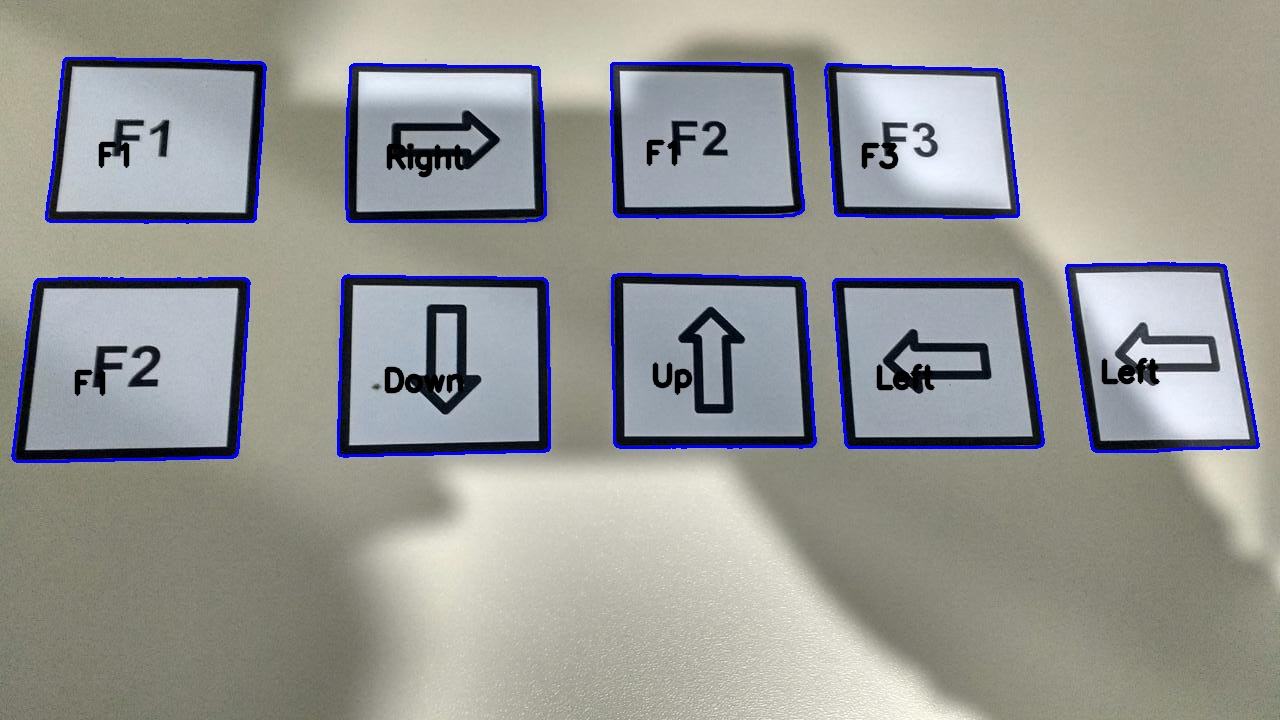
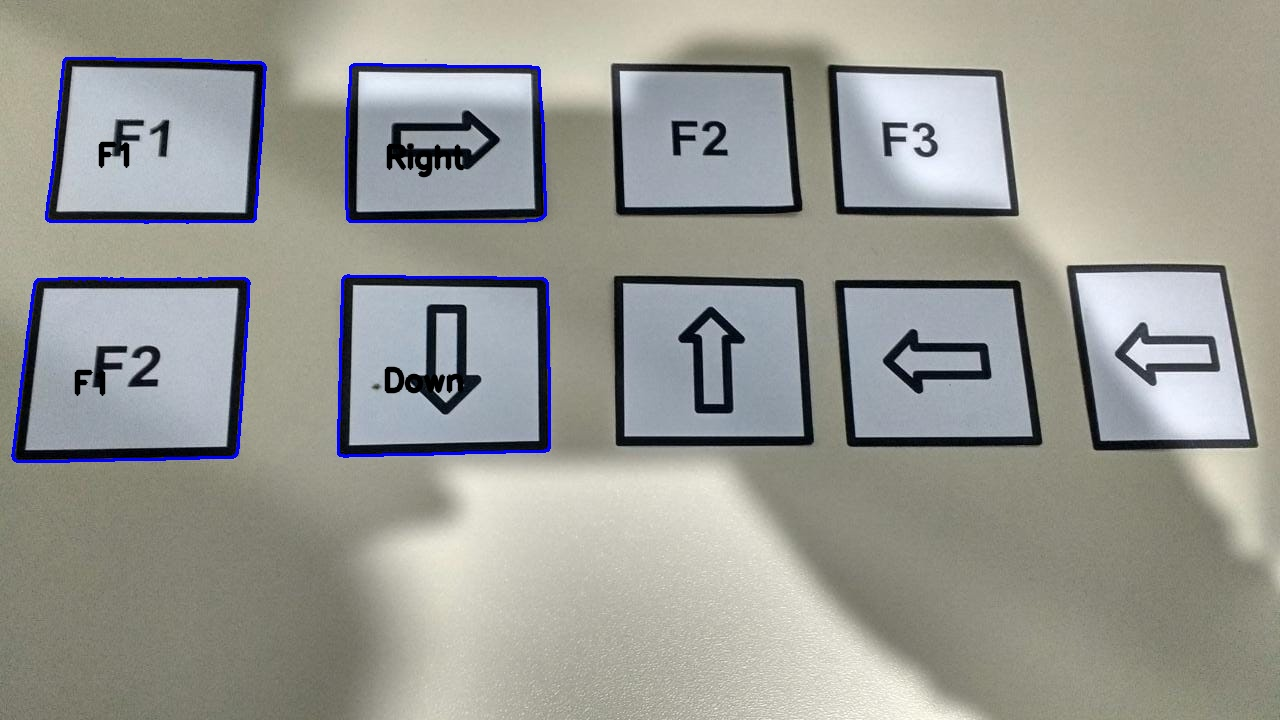
checkpoint

Changed region(s): [[0.4688, 0.3361, 1.0, 0.6417], [0.4688, 0.0611, 0.8125, 0.3056]]

diff --git a/Command.py b/Command.py
@@ -25,7 +25,6 @@ class Query_command:
     def __init__(self):
         self.contour = [] 
         self.width, self.height, self.x, self.y = 0, 0, 0, 0
-        self.corner_pts = [] 
         self.center = [] 
         self.warp = []
         self.command_img = [] 
@@ -69,34 +68,38 @@ def find_commands(cnts, image, train_commands):
     if len(cnts) == 0:
         return []
     cnts = sort_contours(cnts, method="top-to-bottom")
-    commands = []
-    for y in range(len(cnts)): 
-        qCommand = Query_command()
-        qCommand = preprocess_command(cnts[y],image)
-        best_command_match, diff = match_command(qCommand,train_commands)
-        if(best_command_match != "Unknown"):
-            qCommand.best_command_match, qCommand.diff = best_command_match, diff
-            commands.append(qCommand)
-    return commands
 
-    if len(commands) == 0:
-        return []
-    
-    command_order = []
-    line_command  = []
-    limitY = commands[0].center[1] + 15
-    for command in commands:
-        if(command.center[1] < limitY):
-            line_command.append(command)
+    cnts_order = []
+    line_cnts  = []
+    center, pts = define_center(cnts[0])
+    limitY = center[1] + 15    
+    for i in range(len(cnts)):
+        center, pts = define_center(cnts[i])
+        if(center[1] < limitY):
+            line_cnts.append(cnts[i])
         else:
-            limitY = command.center[1] + 15
-            line_command = sort_contours(line_command)
-            command_order.append(line_command)
-            line_command = []
-            line_command.append(command)
-    line_command = sort_contours(line_command)
-    command_order.append(line_command)
-    return command_order
+            limitY = center[1] + 15
+            line_cnts = sort_contours(line_cnts)
+            cnts_order.append(line_cnts)
+            line_cnts = []
+            line_cnts.append(cnts[i])
+    line_cnts = sort_contours(line_cnts)
+    cnts_order.append(line_cnts)        
+
+    commands = []
+    for y in range(len(cnts_order)): 
+        line_commands  = []
+        for x in range(len(cnts_order[y])):  
+            qCommand = Query_command()
+            qCommand = preprocess_command(cnts_order[y][x],image)
+            best_command_match, diff = match_command(qCommand,train_commands)
+            if(best_command_match != "Unknown"):
+                qCommand.best_command_match, qCommand.diff = best_command_match, diff
+                line_commands.append(qCommand)
+        if len(line_commands) > 0:
+            commands.append(line_commands)
+    
+    return commands 
 
 def match_command(qCommand, train_command):
     best_command_match_diff = 1000000000
@@ -115,7 +118,6 @@ def match_command(qCommand, train_command):
     return best_command_match_name, best_command_match_diff
 
 def responseCommands(commands):
-    return ""
     response = ""
     if len(commands) == 0:
         return "Unknown"
@@ -133,20 +135,21 @@ def responseCommands(commands):
 def preprocess_command(contour, image):
     qCommand = Query_command()
     qCommand.contour = contour
-    # Find perimeter of card and use it to approximate corner points
-    peri = cv2.arcLength(contour,True)
-    approx = cv2.approxPolyDP(contour,0.01*peri,True)
-    pts = np.float32(approx)
-    qCommand.corner_pts = pts
     # Find width and height of card's bounding rectangle
     qCommand.width, qCommand.height,qCommand.x, qCommand.y = cv2.boundingRect(contour)
     # Find center point of card by taking x and y average of the four corners.
+    qCommand.center, pts = define_center(contour)
+    qCommand.command_img = flattener(image, pts, qCommand.width, qCommand.height)
+    return qCommand
+
+def define_center(contour):
+    peri = cv2.arcLength(contour,True)
+    approx = cv2.approxPolyDP(contour,0.01*peri,True)
+    pts = np.float32(approx)
     average = np.sum(pts, axis=0)/len(pts)
     cent_x = int(average[0][0])
     cent_y = int(average[0][1])
-    qCommand.center = [cent_x, cent_y]
-    qCommand.command_img = flattener(image, pts, qCommand.width, qCommand.height)
-    return qCommand
+    return [cent_x, cent_y], pts
 
 def sort_contours(cnts, method="left-to-right"):
     i = 0

diff --git a/CommandDetector.py b/CommandDetector.py
@@ -38,11 +38,12 @@ for linha in textInput:
 	textOutput = textOutput + response +"\n"
 
 	temp_cnts = []
-	for i in range(len(commands)):
-		temp_cnts.append(commands[i].contour)
-		cv2.drawContours(image,temp_cnts, -1, (255,0,0), 2)
-		cv2.putText(image,commands[i].best_command_match,(commands[i].center[0]-60, commands[i].center[1]+25),cv2.FONT_HERSHEY_SIMPLEX,1,(0,0,0),3,cv2.LINE_AA)
-		cv2.imwrite(path+"/testeResultado"+ nameFile +".jpeg", image); 
+	for y in range(len(commands)):
+		for x in range(len(commands)):
+			temp_cnts.append(commands[y][x].contour)
+			cv2.drawContours(image,temp_cnts, -1, (255,0,0), 2)
+			cv2.putText(image,commands[y][x].best_command_match,(commands[y][x].center[0]-60, commands[y][x].center[1]+25),cv2.FONT_HERSHEY_SIMPLEX,1,(0,0,0),3,cv2.LINE_AA)
+			cv2.imwrite(path+"/testeResultado"+ nameFile +".jpeg", image); 
     
 
 arqOutput = open(pathTeste+"testOutput.txt", 'w')
